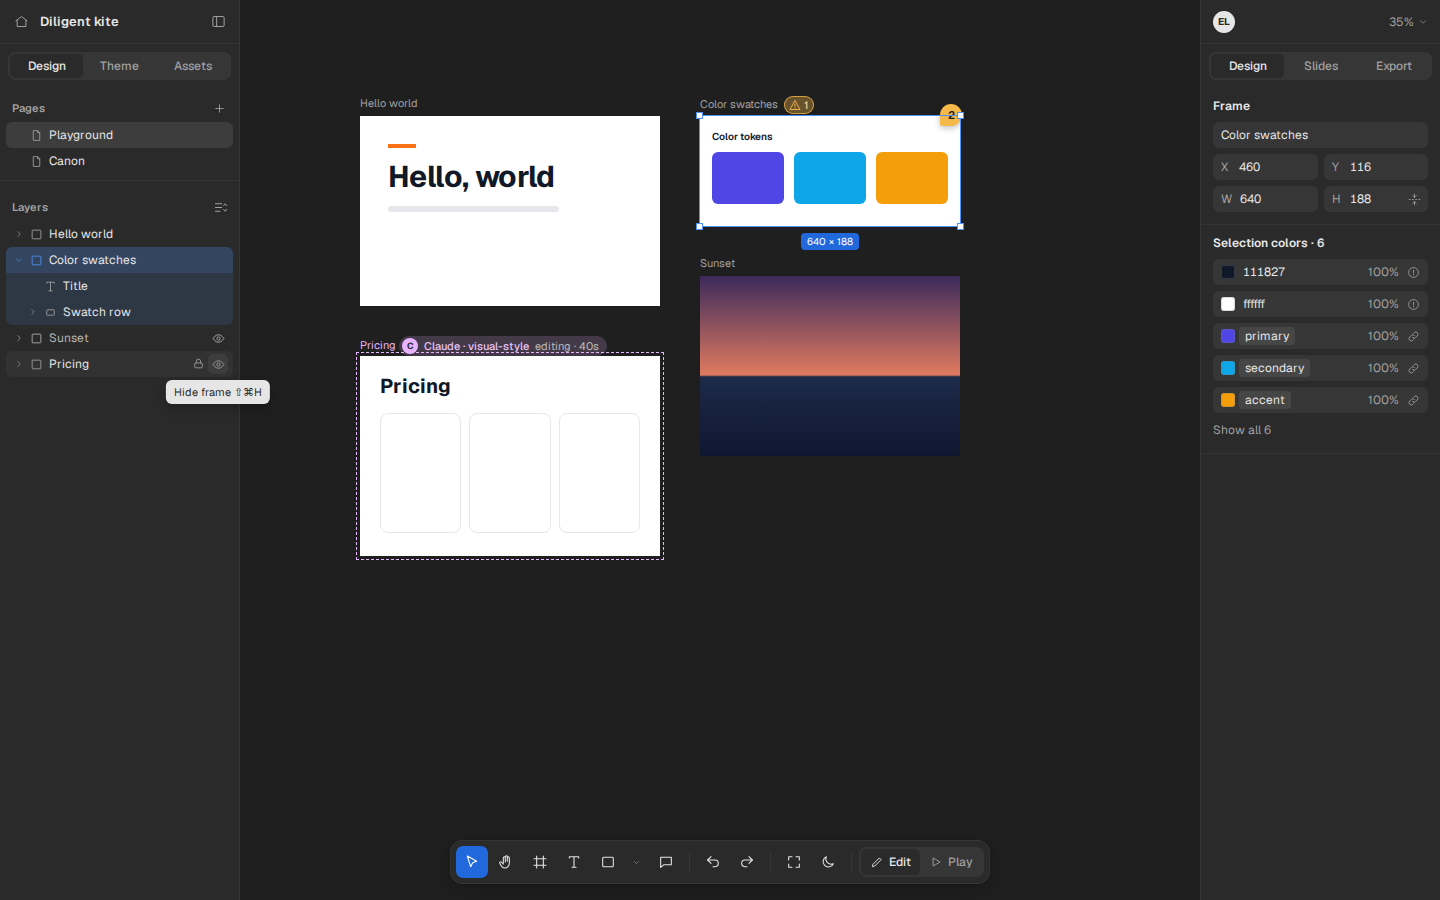
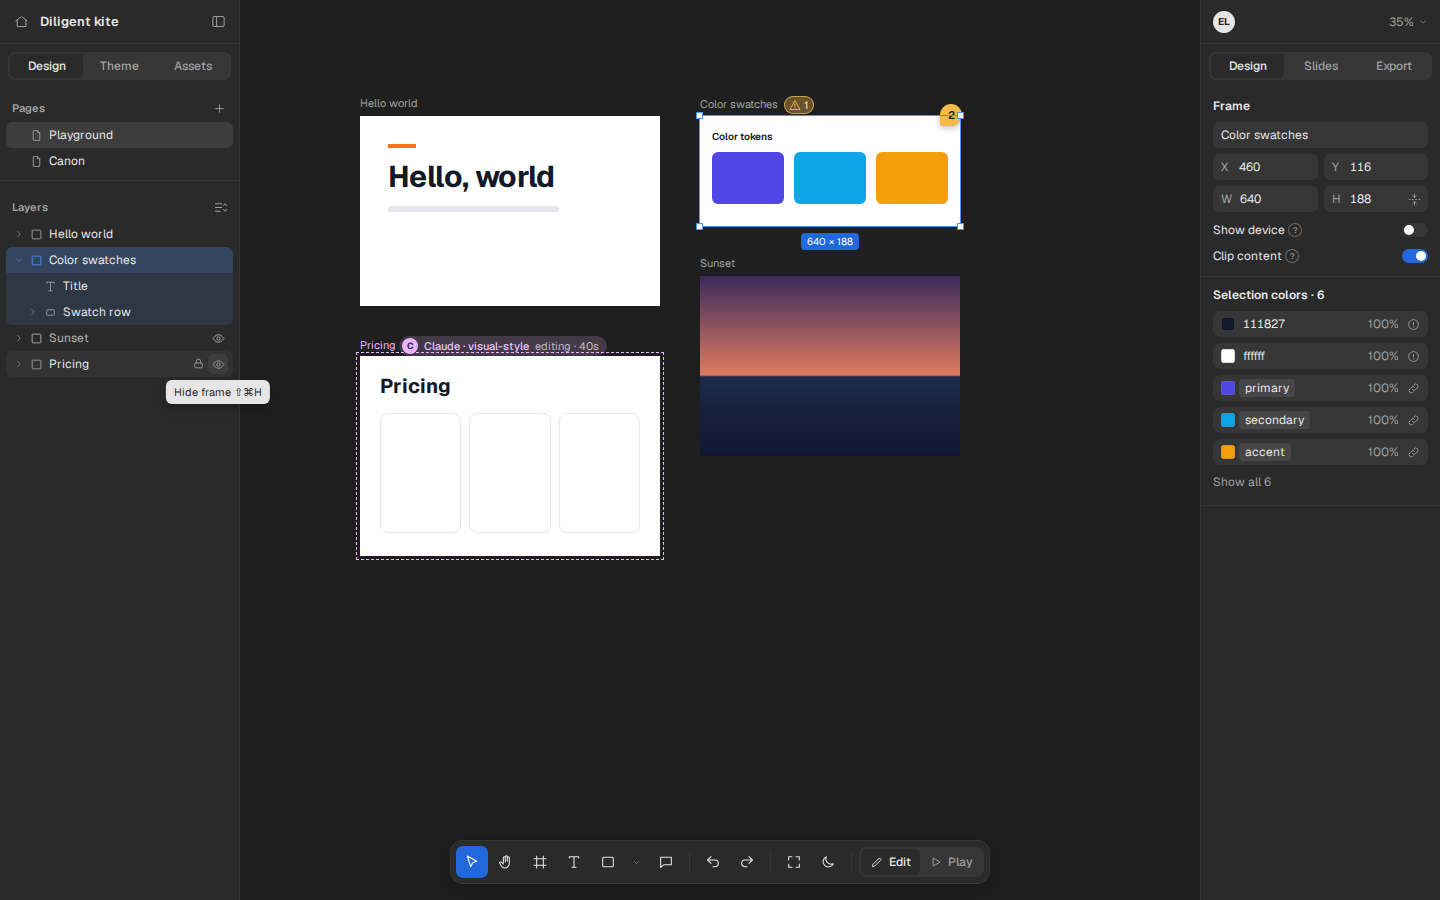
docs(design): draw the clip content switch on the frame panel

Changed region(s): [[0.8438, 0.2489, 0.9062, 0.56], [0.9375, 0.2489, 1.0, 0.4667], [0.9375, 0.4978, 0.9688, 0.5289]]

diff --git a/canon/design/inspector/frame.html b/canon/design/inspector/frame.html
@@ -1430,6 +1430,39 @@
         font-weight: 400;
       }
     </style>
+    <style>
+      .swr {
+        display: flex;
+        align-items: center;
+        justify-content: space-between;
+        height: 16px;
+        margin-top: 10px;
+      }
+      .swt {
+        position: relative;
+        display: block;
+        width: 26px;
+        height: 14px;
+        border-radius: 7px;
+        background: var(--raised);
+      }
+      .swt::after {
+        content: '';
+        position: absolute;
+        top: 2px;
+        left: 2px;
+        width: 10px;
+        height: 10px;
+        border-radius: 5px;
+        background: #fff;
+      }
+      .swt.on {
+        background: var(--accentfill);
+      }
+      .swt.on::after {
+        left: 14px;
+      }
+    </style>
   </head>
   <body>
     <div class="app floating">
@@ -1871,6 +1904,14 @@
                     d="M12 22v-6M12 8V2M4 12H2M10 12H8M16 12h-2M22 12h-2M15 19l-3-3-3 3M15 5l-3 3-3-3"
                   /></svg></span
             ></label>
+          </div>
+          <div class="swr">
+            <span>Show device<span class="q">?</span></span
+            ><i class="swt"></i>
+          </div>
+          <div class="swr">
+            <span>Clip content<span class="q">?</span></span
+            ><i class="swt on"></i>
           </div>
         </div>
         <div class="isec">

diff --git a/canon/design/inspector.md b/canon/design/inspector.md
@@ -21,6 +21,7 @@ description: The right panel for a frame or an element
 - The Height row on Scroll
 - The Show device switch on, naming Phone, beside its framed phone
 - The same switch naming Foldable with its pose and turn set on the canvas
+- The Clip content switch on under the Show device switch off
 - The More widths row listing two linked widths with its Add a width button
 - The Page section and the This slide row as transition tiles with a project's own and Push picked
 - A stepped element's effect tiles and its three start buttons
